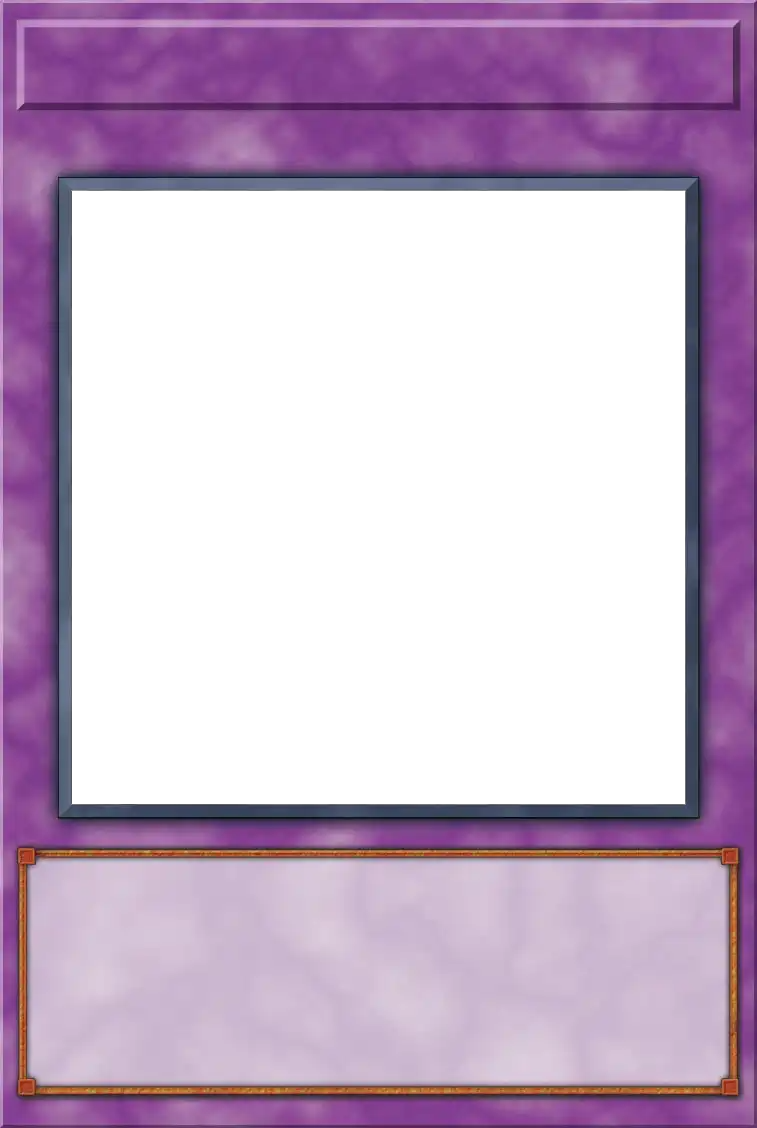
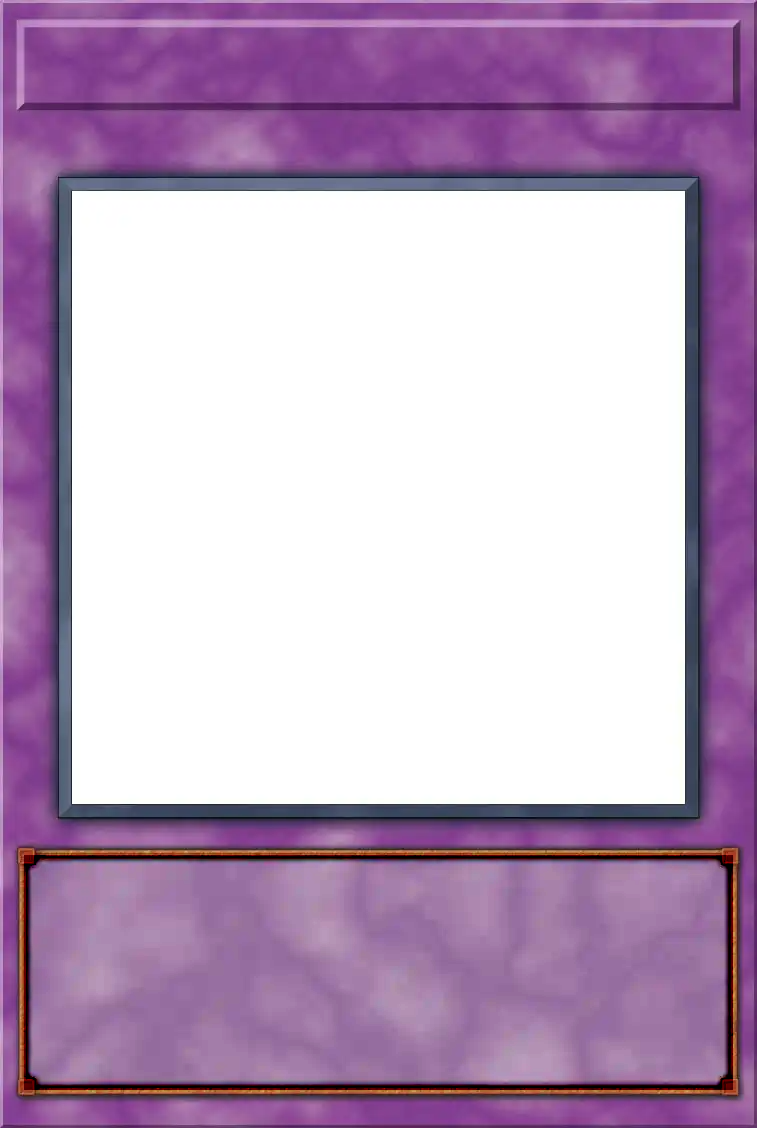
Fix full art text outlining

Changed region(s): [[0.0304, 0.7447, 0.9723, 0.9929]]

diff --git a/Scripts/DB_Custom_Frames.user.js b/Scripts/DB_Custom_Frames.user.js
@@ -1,7 +1,7 @@
 // ==UserScript==
 // @name         DB_Custom_Frames
 // @namespace    http://tampermonkey.net/
-// @version      1.6.12
+// @version      1.6.13
 // @homepageURL  https://github.com/yanislavivanovyanev/YIY_YGO_Customs/
 // @updateURL    https://raw.githubusercontent.com/yanislavivanovyanev/YIY_YGO_Customs/main/Scripts/DB_Custom_Frames.user.js
 // @downloadURL  https://raw.githubusercontent.com/yanislavivanovyanev/YIY_YGO_Customs/main/Scripts/DB_Custom_Frames.user.js
@@ -39,12 +39,12 @@
     const style = document.createElement('style');
     style.textContent = `
       .white-outline-text {
-        color: white;
+        color: white !important;
         text-shadow:
           -1px -1px 0 black,
            1px -1px 0 black,
           -1px  1px 0 black,
-           1px  1px 0 black;
+           1px  1px 0 black !important;
       }
     `;
     document.head.appendChild(style);
@@ -130,14 +130,14 @@
         if(!cardFront || !cardName)
             return;
 
-        // const fullArtName = FULL_ART_NAMES.find(name => card.data('name').includes(name));
-        // if(fullArtName)
-        // {
-        //     setElement(cardFront, BORDER, ".card_border");
+        const fullArtName = FULL_ART_NAMES.find(name => card.data('name').includes(name));
+        if(fullArtName)
+        {
+            //setElement(cardFront, BORDER, ".card_border");
 
-        //     if(color == "Fusion") setFrame(cardFront, FUSION_FRAME);
-        //     //else if()
-        // }
+            if(color == "Fusion") setFrame(cardFront, FUSION_FRAME);
+            //else if()
+        }
 
         if(creator == null || creator == undefined || creator == "")
             return;
@@ -190,7 +190,11 @@
             cardFront.data('pic', FULL_ART_URL + fullArtName + ".png");
             cardFront.addClass('full-art');
             cardFront.find('[class*="_txt"]').addClass('white-outline-text');
+            cardFront.find('[class*="_lbl"]').addClass('white-outline-text');
         }
+        cardFront.removeClass('full-art');
+        cardFront.find('[class*="_txt"]').removeClass('white-outline-text');
+        cardFront.find('[class*="_lbl"]').removeClass('white-outline-text');
     }
     unsafeWindow.applyFullArt = applyFullArt;
 

diff --git a/Scripts/Custom_DB_Custom.user.js b/Scripts/Custom_DB_Custom.user.js
@@ -3,7 +3,7 @@
 // @name         Custom_DB_Custom
 
 // @description  Adds options to customize DB and make it more streamer friendly
-// @version      1.2.13
+// @version      1.2.14
 // @author       Killburne
 // @license		 MIT
 // @namespace    https://www.yugioh-api.com/
